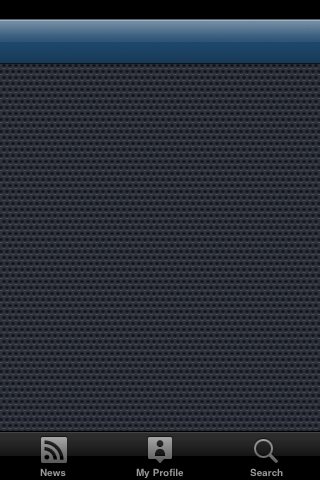
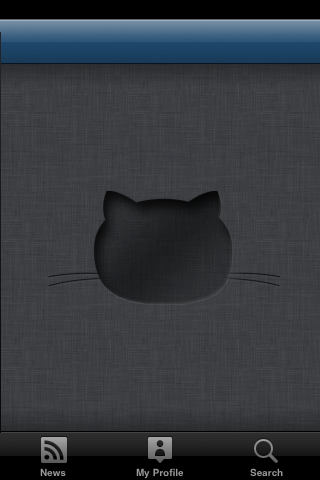
updated GHTableViewController background image with cat

Changed region(s): [[0.0, 0.125, 1.0, 0.9062]]

diff --git a/iGithub/iPhone/iGithubAppDelegate_iPhone.m b/iGithub/iPhone/iGithubAppDelegate_iPhone.m
@@ -65,7 +65,6 @@
     
     NSMutableDictionary *dictionary = [self deserializeState];
     
-//    tabBarController = nil;
     if (dictionary) {
         self.tabBarController = [[[UITabBarController alloc] init] autorelease];
         self.window.rootViewController = self.tabBarController;
